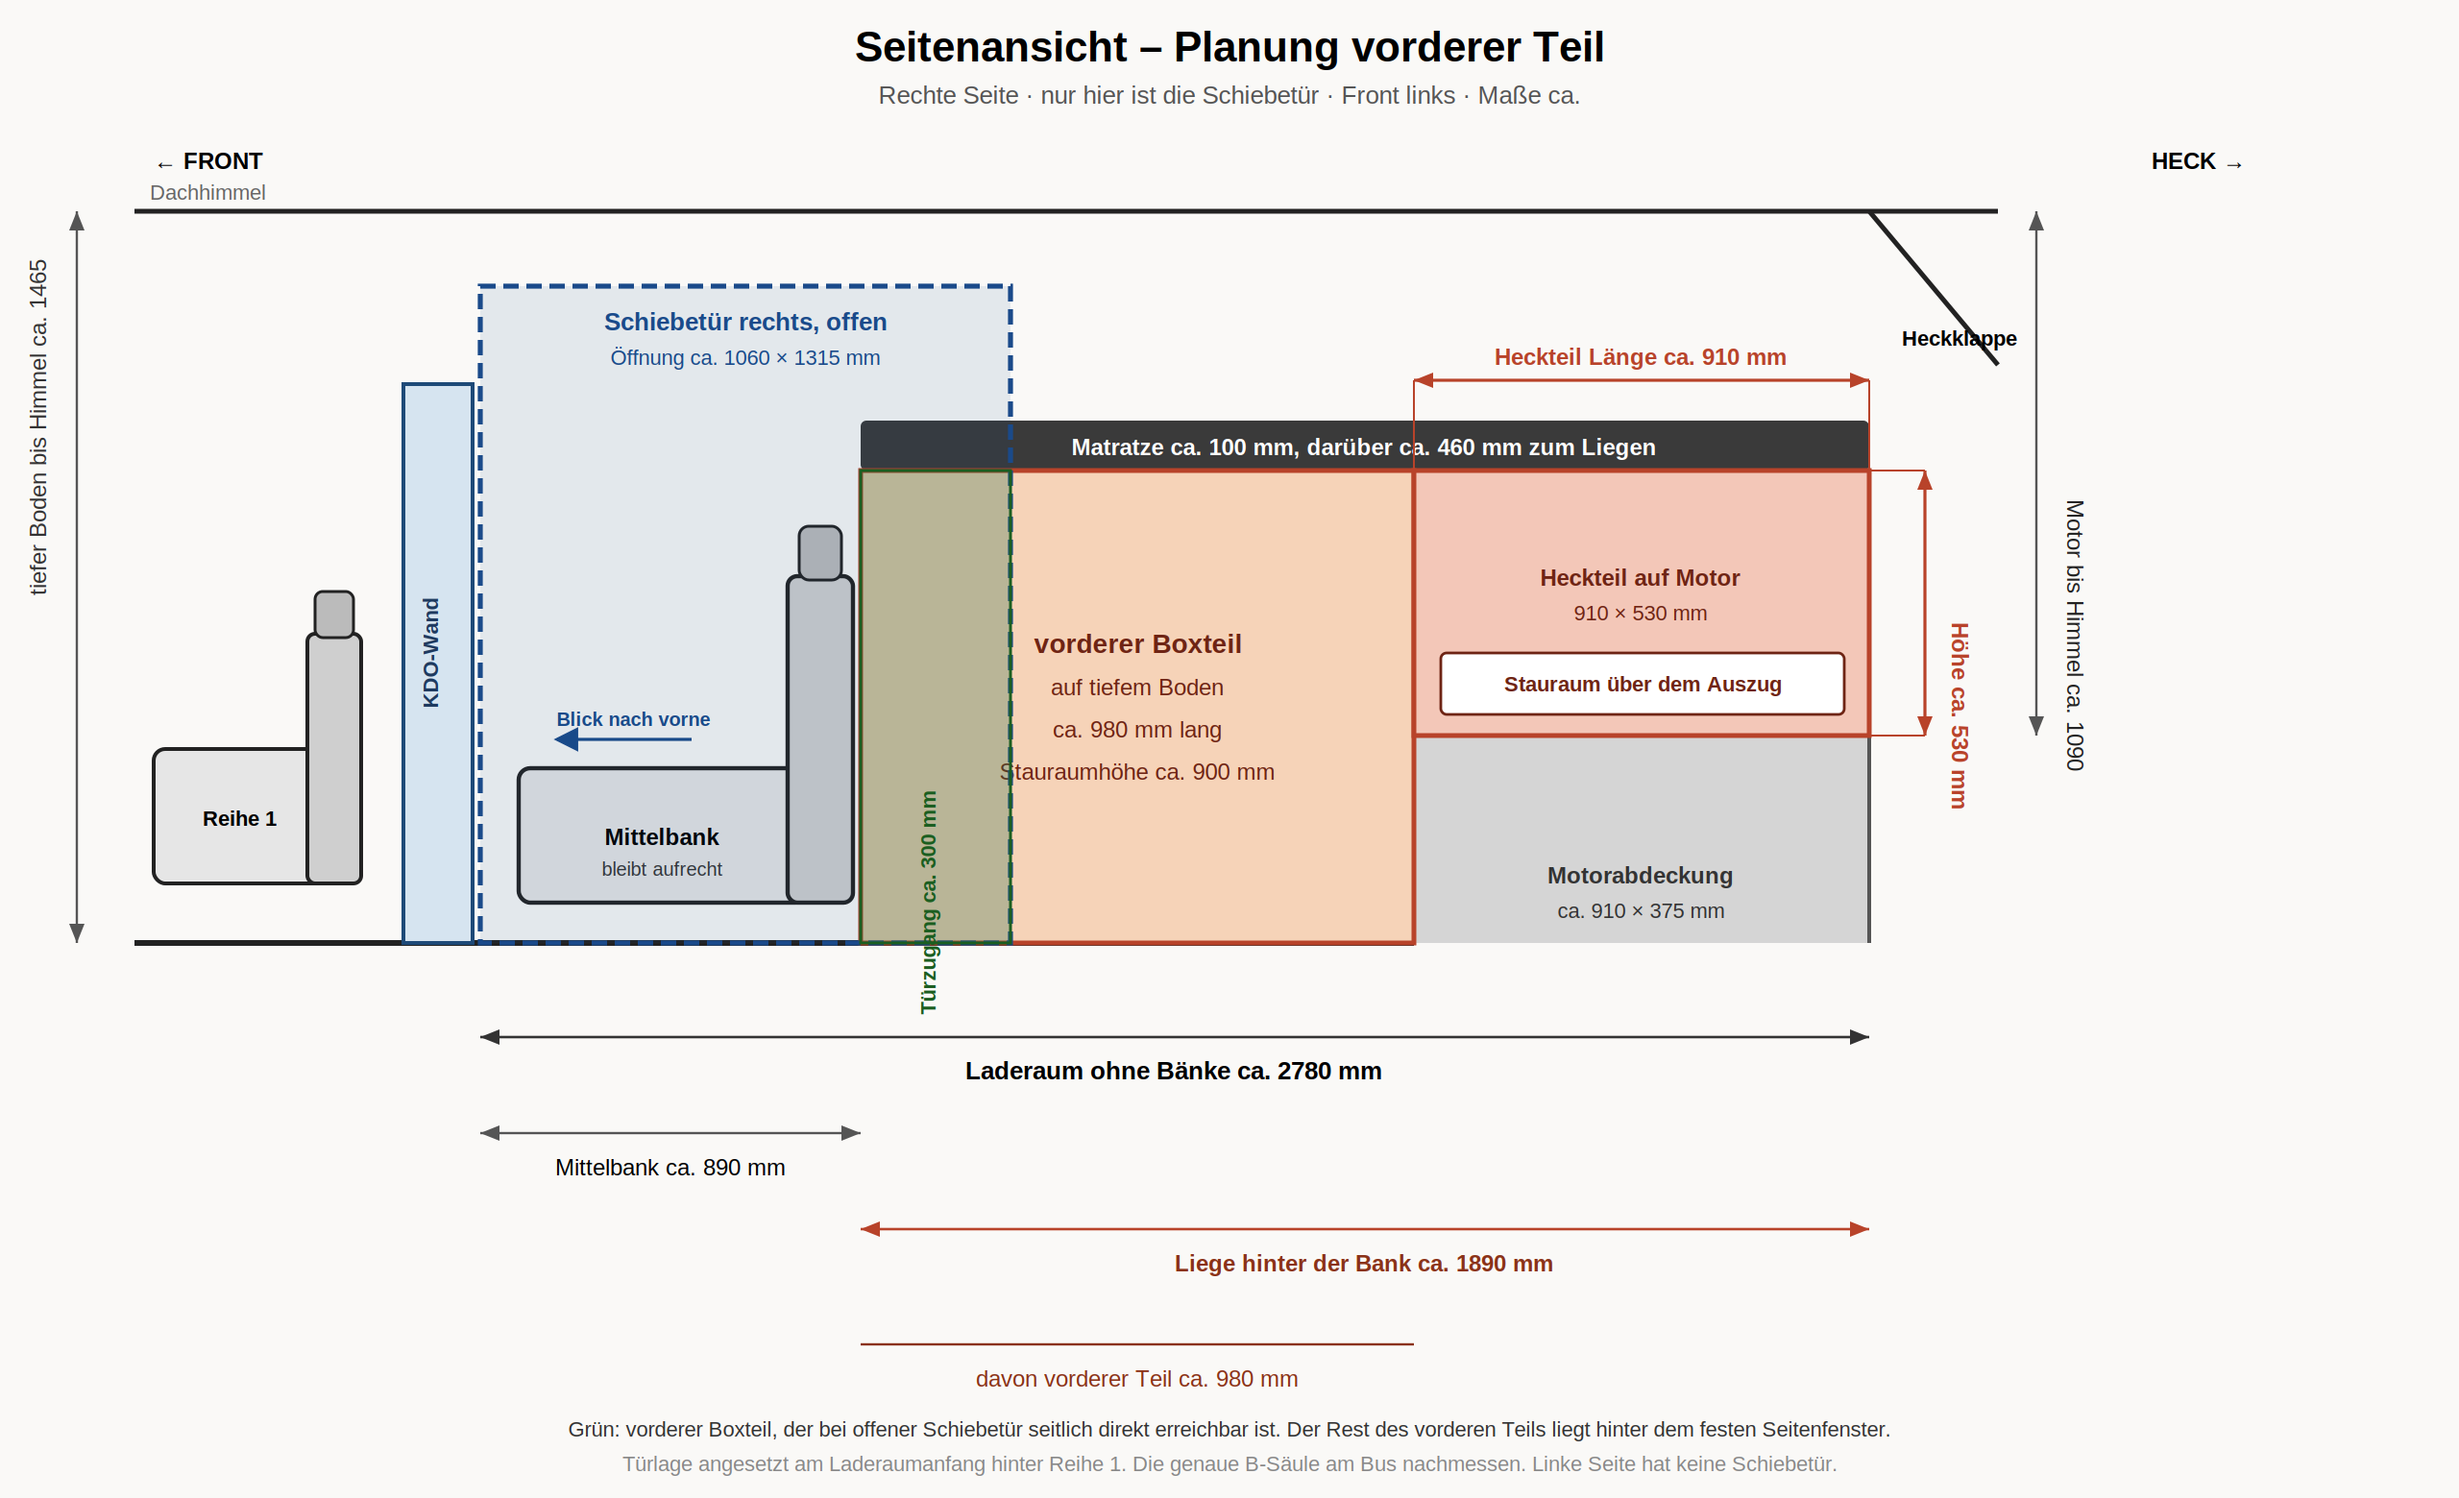
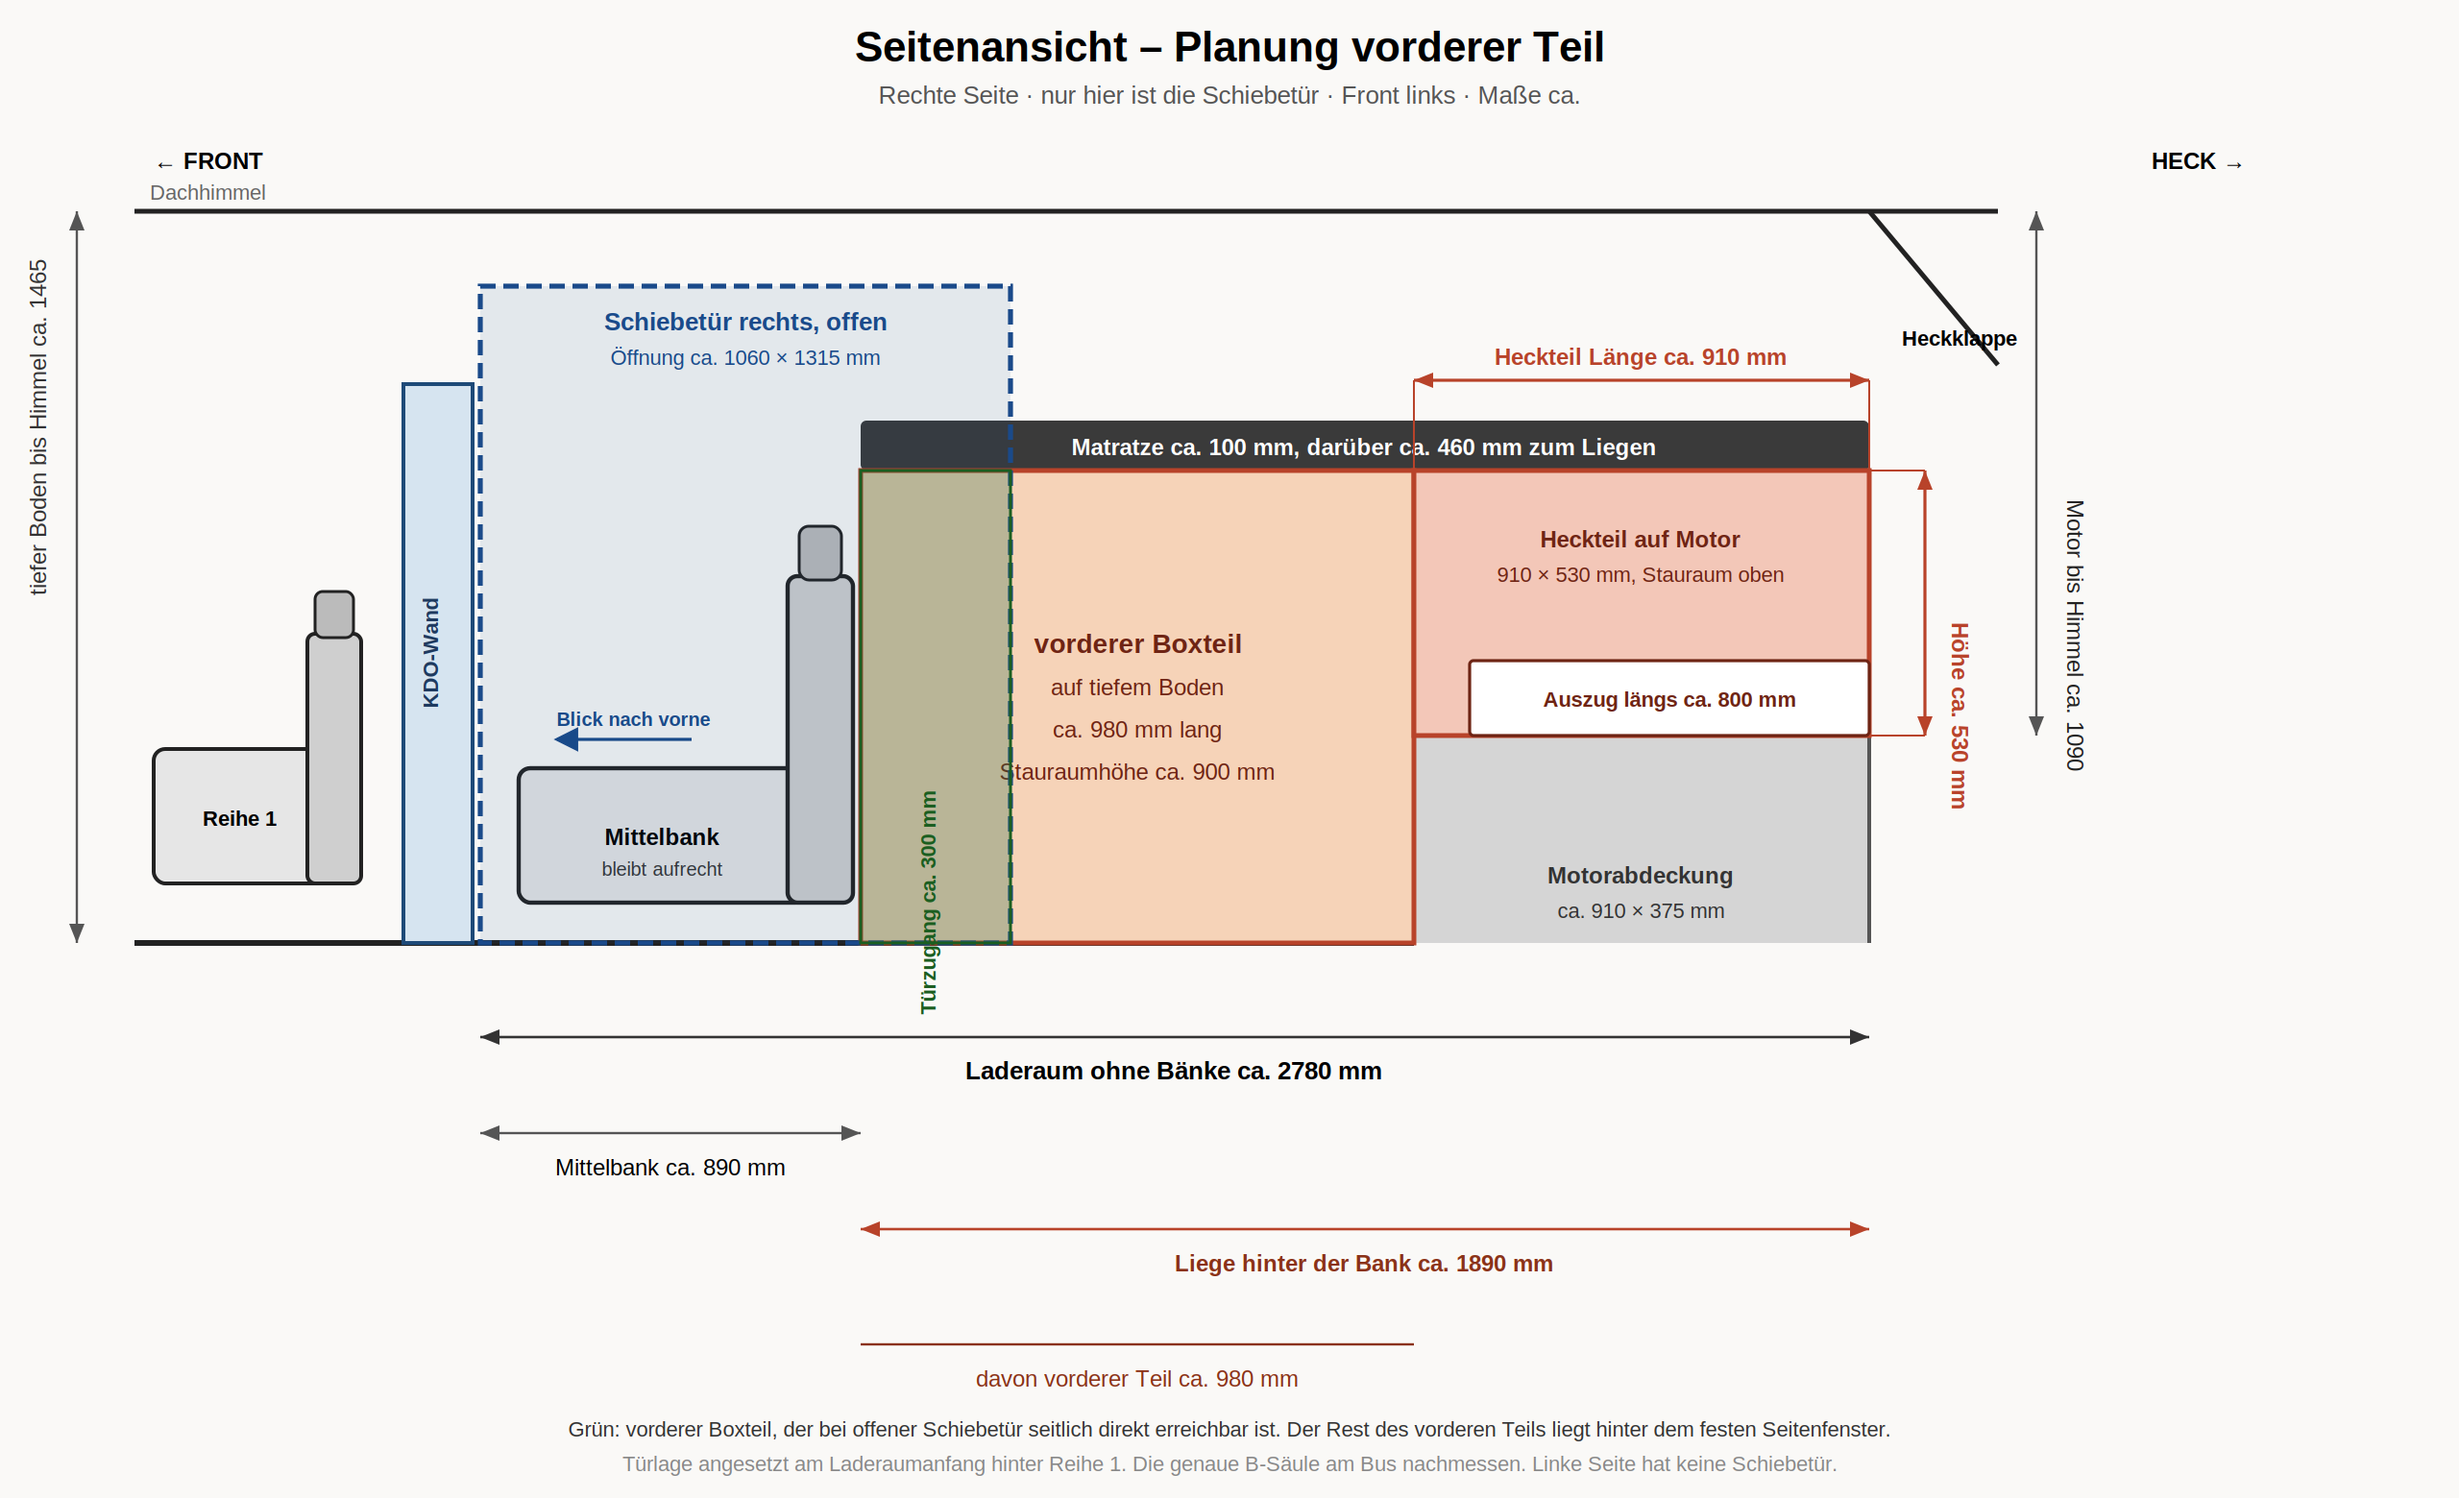
Run the stove drawer lengthwise in the rear box
The 910 mm engine module can take an 800 mm pull-out, so a 600 mm double burner fits along the vehicle with room behind it for the cartridge and cutlery.

Changed region(s): [[0.5625, 0.3385, 0.7812, 0.4923]]

diff --git a/docs/t3-syncro-camping-referenz.md b/docs/t3-syncro-camping-referenz.md
@@ -21,7 +21,7 @@ Die Campingbox bleibt so, bis am Bus nachgemessen wird. Kein Materialzuschnitt i
 
 **Box:** Liege oben, eben. Vorderer Teil ca. 980 mm auf dem tiefen Boden, Stauraum dort ca. 900 mm hoch. Heckteil auf der Motorabdeckung ca. **910 × 1550 × 530 mm** (Länge × Breite × Höhe). Die Motorabdeckung selbst ist nur ca. 1190 mm breit, der Kasten geht bis an die Seiten. Der hohe Kasten ist Stauraum, nicht Sitzfreiheit.
 
-**Heckauszug** (von der Heckklappe): flacher Wasserkanister, Höhe max. 170 mm, ca. 20 l, neben dem Doppel-Gaskocher (Fach mind. 560 × 400 × 150 mm). Darüber der große Stauraum. Der LifeSaver Jerrycan bleibt draußen. Kochen nur bei offener Heckklappe.
+**Heckauszug** (von der Heckklappe): flacher Wasserkanister, Höhe max. 170 mm, ca. 20 l, neben dem Doppel-Gaskocher. Der Kocher steht **längs** in einem Auszug von ca. **800 × 450 × 150 mm**, damit ein 2-Flammer mit ca. 600 mm Breite hineinpasst. Darüber der große Stauraum. Der LifeSaver Jerrycan bleibt draußen. Kochen nur bei offener Heckklappe.
 
 **Schlechtwetter:** Aufenthalt zu fünft im Vorzelt an der Schiebetür, nicht auf der Liege. Abschnitt 7.3.
 
@@ -370,7 +370,7 @@ Priorisierte Packliste (nur was wirklich im Bus bleiben soll):
 | 3 | Küchen-Minimum (Gas abseits Fahrzeugregeln beachten) | 1× flache Box |
 | 4 | Kühlbox 12 V (kompressor, schmal) | z. B. ~20–30 l, Quereinbau |
 | 0 | **flacher Wasserkanister, ca. 20 l** | Heckfach, liegend, Höhe max. 170 mm |
-| 0b | **Doppel-Gaskocher** | Heckauszug, Fach ≥ 560×400×150 mm |
+| 0b | **Doppel-Gaskocher** | Auszug längs, Fach ca. 800×450×150 mm |
 | 5 | Werkzeug / Recovery klein | 1 Fach, zugänglich von Heck |
 | — | Rucksäcke, Kinder-Dachzelt, Fahrräder | **→ Anhänger**; Busdach nur Reisegepäck |
 
@@ -398,16 +398,17 @@ Reliance Aqua-Tainer 15 l ist 29 × 29 × 27,5 cm und bleibt zu hoch. Der 26-l-K
 
 ### 4.6b Doppel-Gaskocher im Heckauszug
 
-Der Heckauszug nimmt neben dem Stauraum einen **2-Flammen-Kocher** auf. Richtmaß ist die verbreitete Klasse Campingaz Camping Kitchen 2 (geschlossen **490 × 320 × 100 mm**, offen **490 × 350 × 350 mm**, ca. 3,1–3,6 kg). Die größere Maxi-Variante liegt geschlossen bei ca. 530 × 360 × 110 mm.
+Der Heckauszug nimmt neben dem Stauraum einen **2-Flammen-Kocher** auf. Der Heckteil ist ca. 910 mm tief, der Auszug liegt **längs** darin, ca. 800 mm lang. Damit passt ein Doppelkocher mit ca. **600 mm Breite**: die 600 mm zeigen in Fahrtrichtung, nicht quer. In den restlichen ca. 200 mm des Auszugs stehen Kartusche und eine flache Besteckrolle.
+
+Zum Vergleich die kleinere Klasse Campingaz Camping Kitchen 2: geschlossen **490 × 320 × 100 mm**, offen **490 × 350 × 350 mm**. Die passt auch. Die Fachhöhe bleibt 150 mm, geschlossen. Offen ist der Kocher ca. 35 cm hoch und steht dafür vor der Ladekante.
 
 | | Plan |
 | --- | --- |
-| Lage | im **Heckauszug**, quer, Deckel nach oben |
-| Lichtes Fach | **mind. 560 × 400 × 150 mm**, damit auch ein etwas größerer 2-Flammer geschlossen hineinpasst |
-| Betrieb | Auszug ganz heraus, bis der Kocher **vor der Ladekante** steht und der Deckel frei aufklappen kann (offen ca. 35 cm hoch) |
-| Gas | eine Kartusche oder kleine Flasche **im selben Auszug**, stehend und verzurrt, nicht lose unter der Matratze |
+| Lage | im **Heckauszug**, **längs**, Deckel nach oben. Die 600 mm Breite laufen in Fahrtrichtung |
+| Lichtes Fach | ca. **800 × 450 × 150 mm** (Länge × Breite quer × Höhe). 800 mm lassen im 910-mm-Heckteil ca. 110 mm für Stirnwand und Führung |
+| Betrieb | Auszug so weit heraus, dass der Kocher **vor der Ladekante** steht und der Deckel frei aufklappen kann. Voll ausgezogen hängen ca. 80 cm hinter dem Heck. Der Kasten ist nur verzurrt, der Auszug wird beim Kochen nicht als Tisch belastet |
+| Gas und Besteck | im selben Auszug hinter dem Kocher, in den ca. 200 mm. Kartusche stehend und verzurrt. Eine kleine Kartusche wie die CV 300 Plus ist ca. Ø 90 × 105 mm |
 | Wasser | flacher Kanister im Nachbarfach, Höhe max. 170 mm. Darüber und neben dem Auszug liegt der Stauraum der 530-mm-Box |
-| Besteck | im Stauraum über dem Auszug, nicht auf dem Kocher. Im 150-mm-Fach bleiben neben dem Kocher nur 70 und 80 mm |
 
 Kochen nur bei **offener Heckklappe** und ausgezogenem Kocher, nicht im geschlossenen Bus. Die Geräte dieser Klasse sind laut Hersteller nicht für geschlossene Räume. Keine feste Gasanlage, kein Einbaukocher – der Kocher bleibt ein herausnehmbares Campinggerät.
 
@@ -584,7 +585,7 @@ Modell noch offen. Gesucht wird ein Vorzelt zum Stehen und Sitzen für fünf, da
 | Küche fest | nein | Kocher bleibt loses Gerät im Auszug |
 | Trinkwasser | flacher Kanister ca. 20 l, Höhe max. 170 mm | LifeSaver bleibt draußen. Die 530 mm Höhe bleibt für den Stauraum |
 | Aufenthalt Regen | Vorzelt an der Schiebetür, 5 Personen | im Bus wird gelegen, nicht gesessen |
-| Kocher | 2-Flammer im Heckauszug | geschlossen ~49×32×10 cm; nur bei offener Klappe |
+| Kocher | 2-Flammer längs im Heckauszug, Fach ca. 800×450×150 mm | 60-cm-Breite passt in die 91 cm Tiefe; nur bei offener Klappe |
 | Zugriff vorn | 300 mm seitlich an der rechten Schiebetür, Rest von oben | Türöffnung deckt den Kasten nicht auf ganzer Länge |
 | Schlafen Kinder | Dachzelt auf dem Pongratz 230er Heavy | Ladefläche 223 × 125 cm; Busdach nur Gepäck |
 | Räder | 2 MTB an der Deichsel, Kinderräder im Hänger | Stützlast eingetragen 75 kg; mit Waage prüfen |
@@ -657,6 +658,7 @@ Modell noch offen. Gesucht wird ein Vorzelt zum Stehen und Sitzen für fünf, da
 | 2026-09-24 | LifeSaver Jerrycan raus. Heckteil ca. 220 mm, flacher 20-l-Kanister, ca. 770 mm über der Matratze |
 | 2026-09-24 | Heckteil wieder ca. 530 mm wegen Stauraum. Sitzen zu fünft im Vorzelt, nicht auf der Liege |
 | 2026-09-24 | Heckteil bemaßt: ca. 910 × 1550 × 530 mm, in Seiten- und Heckansicht eingezeichnet |
+| 2026-09-24 | Kocherauszug längs, ca. 800 mm, damit ein 2-Flammer mit ca. 600 mm Breite hineinpasst |
 | 2026-09-24 | Box-Follow-up: Geometrie bleibt pausiert; Anhänger ist entschieden, Kocher bleibt im Heckauszug |
 
 ---
